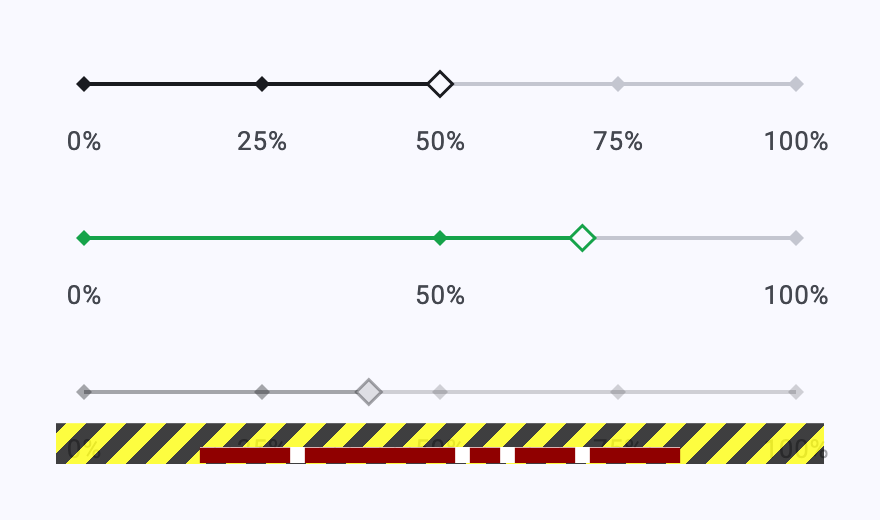
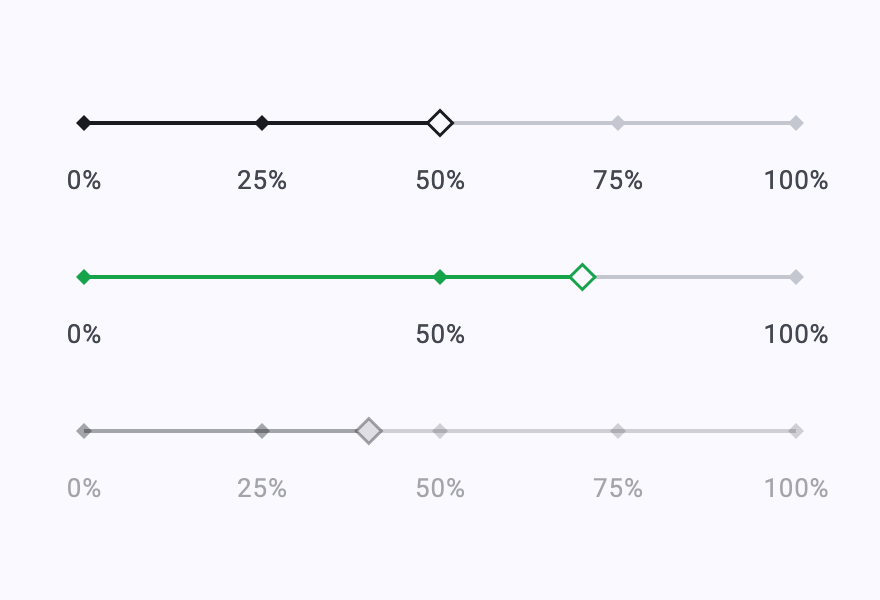
docs: finish the package docs and screenshot set
Every golden the example renders is now shown somewhere: the tilt animation
and the light/dark and variant captures go into README.md, and all four land
in the pubspec screenshot gallery with descriptions that match what they
actually show — the leverage picker is in slider.png, not variants.png.

Also taller canvas for the variants golden so its bottom label row is not
clipped, RTL in the feature list, material_ui ^1.1.0 in the example to match
the package constraint, and a real example README in place of the Flutter
template stub.

diff --git a/example/test/screenshots_test.dart b/example/test/screenshots_test.dart
@@ -92,7 +92,10 @@ void main() {
     WidgetTester tester,
   ) async {
     tester.view
-      ..physicalSize = const Size(880, 520)
+      // Three labelled sliders need more than the 260 logical pixels that a
+      // 880×520 capture becomes at 2× DPR. Keep the bottom label row inside
+      // the canvas so the generated README image has no overflow warning.
+      ..physicalSize = const Size(880, 600)
       ..devicePixelRatio = 2;
     addTearDown(tester.view.reset);
 

diff --git a/README.md b/README.md
@@ -7,6 +7,8 @@ keyboard interaction and accessibility behaviour of Flutter's `Slider`.
 
 ![Diamond sliders at three settings](screenshots/slider.png)
 
+![The thumb tilts with left and right swipes](screenshots/tilt-on-swipe.gif)
+
 ## Features
 
 * Integer ranges with guaranteed step snapping.
@@ -14,6 +16,7 @@ keyboard interaction and accessibility behaviour of Flutter's `Slider`.
 * Optional labels and independent value-indicator formatting.
 * Light/dark colour defaults plus `DiamondSliderTheme` for app-wide styling.
 * A disabled state, keyboard controls and screen-reader value semantics.
+* Right-to-left layouts, where the scale and its labels mirror.
 * Public track, thumb, tick-mark and value-indicator shapes for use with a
   plain `Slider`.
 
@@ -44,6 +47,11 @@ DiamondPercentSlider(
 )
 ```
 
+`step`, `nodes` and the per-instance colours cover the rest of the shape of the
+control, including a disabled slider, which dims its labels along with it:
+
+![Coarse steps, a custom tint, and the disabled state](screenshots/variants.png)
+
 No setup is required: colours derive from the ambient `ColorScheme`. To style
 every slider, register a `DiamondSliderTheme` in `ThemeData.extensions`:
 
@@ -59,6 +67,11 @@ ThemeData(
 )
 ```
 
+The defaults follow the theme's brightness, so a dark app needs no extra
+configuration:
+
+![The default colours in a dark theme](screenshots/dark.png)
+
 `labelFormatter`, `indicatorFormatter` and `semanticFormatter` let the scale,
 value bubble and screen-reader announcement use the wording appropriate to
 your domain. See the runnable [example](example) for light, dark, disabled and
@@ -67,7 +80,8 @@ custom-colour variants.
 ## Development
 
 Run `flutter analyze` and `flutter test` from the package root. The example's
-golden tests regenerate the README screenshots with:
+golden tests regenerate the README screenshots — every image here except the
+hand-recorded tilt animation — with:
 
 ```sh
 cd example

diff --git a/example/README.md b/example/README.md
@@ -1,17 +1,29 @@
 # diamond_percent_slider_example
 
-A new Flutter project.
+A runnable demo of [`diamond_percent_slider`](../), showing the slider in the
+configurations the package README describes: the plain percent scale, a
+labelled scale, a leverage picker with `x` labels, coarse steps, a custom tint,
+the disabled state, and the light and dark colour defaults. The app bar
+toggles the theme's brightness and the text direction, so the right-to-left
+layout is one tap away.
 
-## Getting Started
+## Run it
 
-This project is a starting point for a Flutter application.
+```sh
+flutter run
+```
 
-A few resources to get you started if this is your first Flutter project:
+The demo depends on the package by path, so edits to `../lib` show up on the
+next hot reload.
 
-- [Learn Flutter](https://docs.flutter.dev/get-started/learn-flutter)
-- [Write your first Flutter app](https://docs.flutter.dev/get-started/codelab)
-- [Flutter learning resources](https://docs.flutter.dev/reference/learning-resources)
+## Screenshots
 
-For help getting started with Flutter development, view the
-[online documentation](https://docs.flutter.dev/), which offers tutorials,
-samples, guidance on mobile development, and a full API reference.
+`test/screenshots_test.dart` renders the images in the package README from
+these same widgets. Regenerate them after changing how the slider draws:
+
+```sh
+flutter test --update-goldens test/screenshots_test.dart
+```
+
+The goldens land in `../screenshots/`. They are compared, not just written, so
+plain `flutter test` fails when the rendering changes unintentionally.
